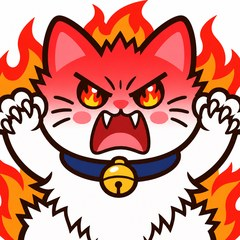
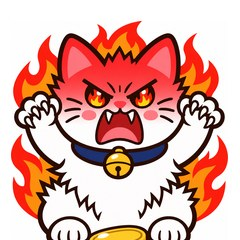
招財貓頭耳與手完整顯示在圓圈內

diff --git a/index.html b/index.html
@@ -569,7 +569,7 @@ table.team .muted{color:var(--muted)}
 <div id="jiaWrap" hidden><div id="jiaSay" role="status"></div><button type="button" id="jia"></button></div>
 
 <script src="https://cdnjs.cloudflare.com/ajax/libs/xlsx/0.18.5/xlsx.full.min.js"></script>
-<script type="module" src="./app.js?v=20261105b"></script>
+<script type="module" src="./app.js?v=20261105c"></script>
 <script>
   // 若 15 秒後仍未載入（網路或瀏覽器封鎖），提示使用者
   setTimeout(function(){ if(!window.__booted){ var m=document.getElementById("bootMsg"); if(m) m.innerHTML="載入時間過長。請確認網路連線，或改用 Safari／Chrome 開啟此網址。<br><br><button class=\"btn\" onclick=\"location.reload()\">重新整理</button>"; } },15000);

diff --git a/app.js b/app.js
@@ -1180,7 +1180,7 @@ function catRender(){
   wrap.hidden=!show;if(!show)return;
   const st=catNow(),s=CATS[st.k];catLast=st.k;
   wrap.style.setProperty("--jc",CAT_HOT[st.k]||CAT_COLOR[s.g]);
-  $("#jia").innerHTML=`<img class="${s.anim}" src="./cat/${s.img||st.k}.jpg?v=2" alt="">`;
+  $("#jia").innerHTML=`<img class="${s.anim}" src="./cat/${s.img||st.k}.jpg?v=3" alt="">`;
   $("#jia").setAttribute("aria-label",`招財貓：${s.title}。打開行動清單`);
   const stale=[...Ctx.my.values()].filter(c=>inBook(c)&&isStale(c)).length,say=$("#jiaSay");
   say.hidden=catHidden(st.k);
